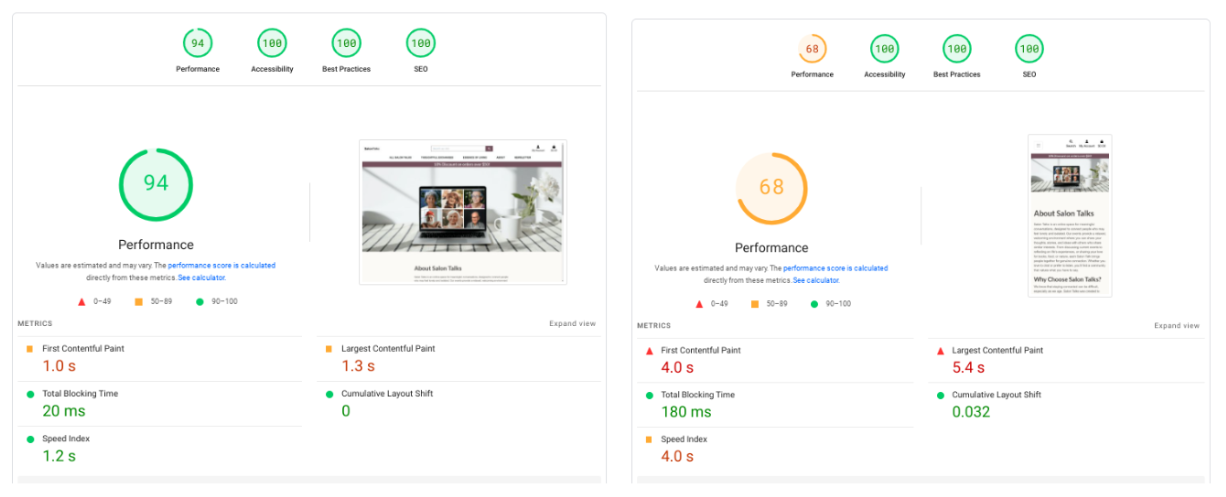
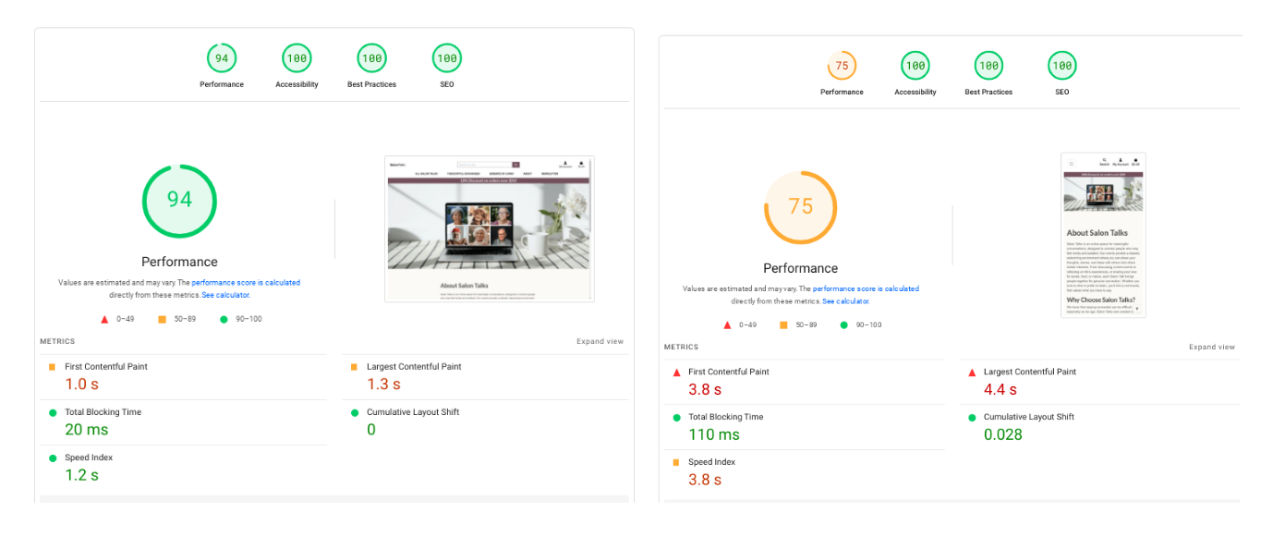
update image

diff --git a/contact/templates/contact/contact_update_form.html b/contact/templates/contact/contact_update_form.html
@@ -49,7 +49,7 @@
                                 </tbody>
                             </table>
                             
-                            <a href="{% url 'contact-list' %}" style="color: #704c5eff; font-weight: bold;">Back to Contact List</a>
+                            <a href="{% url 'contact-list' %}" style="color: #0f78ea; font-weight: bold;">Back to Contact List</a>
                             <div class="text-center my-5" id="message-detail-button-container">
                                 {% if not object.responded %}
                                     <button class="btn btn-success" onclick="responseForm()">Respond To Message <i class="fa-solid fa-caret-down"></i></button>

diff --git a/subscribe/templates/subscribe/subscribe.html b/subscribe/templates/subscribe/subscribe.html
@@ -6,7 +6,9 @@
 {% endblock %}
 
 {% block content %}
-    <img src="{% static 'images/backgrounds/macbookpro_on_wooden_cabinet.png' %}" alt="MacBook Pro on wooden cabinet" class="img-fluid mb-4">
+    <img src="{% static 'images/backgrounds/macbookpro_on_wooden_cabinet.webp' %}" 
+         alt="MacBook Pro on wooden cabinet" 
+         class="img-fluid mb-4">
     <div class="overlay"></div>
     <div class="container-fluid">
         <div class="row">

diff --git a/about/templates/about/about.html b/about/templates/about/about.html
@@ -6,7 +6,7 @@
 {% endblock %}
 
 {% block content %}
-<img src="{% static 'images/backgrounds/macbookair_on_table.png' %}" 
+<img src="{% static 'images/backgrounds/macbookair_on_table.webp' %}" 
      alt="MacBook Air on table" 
      class="img-fluid mb-4">
 <div class="overlay"></div>
